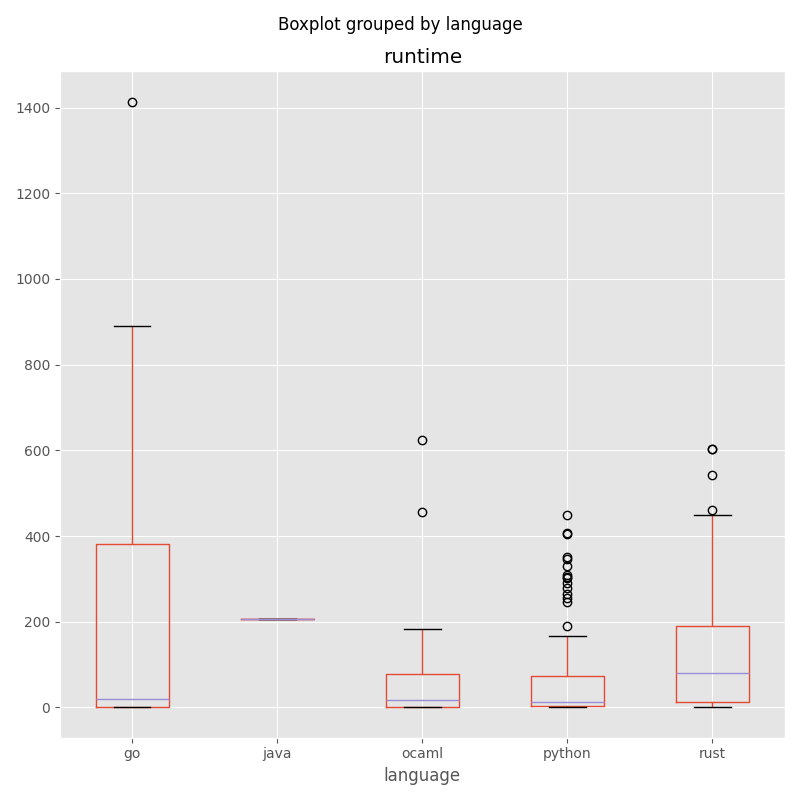
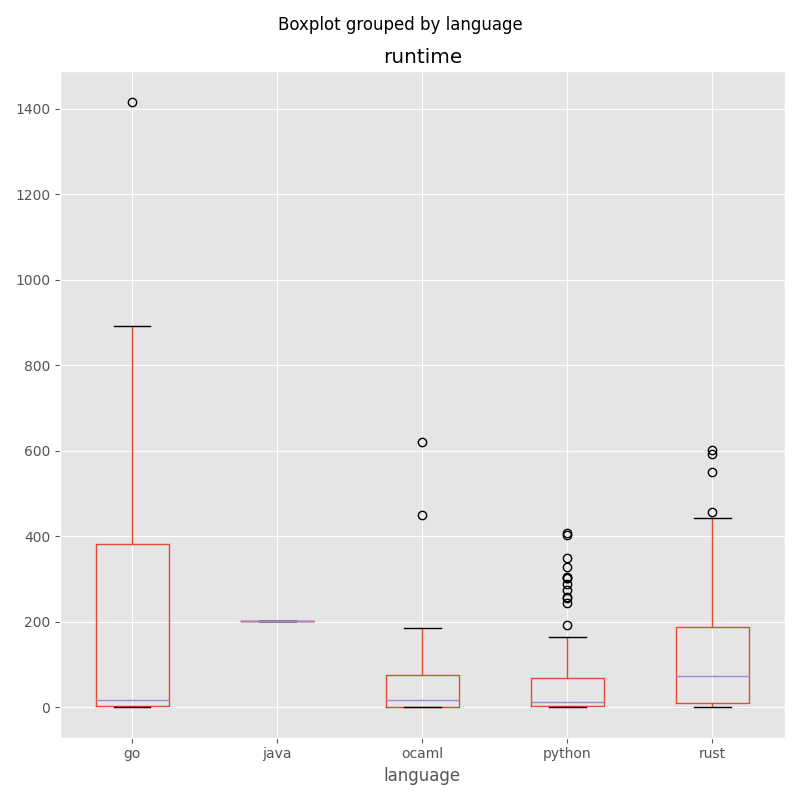
Speed up 2017/23 prime finding algo by only looking up to square root. Update graphs.

diff --git a/2017/23/solver.py b/2017/23/solver.py
@@ -1,52 +1,46 @@
+import math
 from collections import defaultdict
+from dataclasses import dataclass, field
 
 from aoc import answer
 from aoc.parser import Parser
 
+type Instruction = tuple[str, list[str]]
 
+
+@dataclass
 class Computer:
-    def __init__(self, instructions):
-        self.regs = defaultdict(int)
-        self.instructions = instructions
-        self.ip = 0
-        self.multiplies = 0
+    instructions: list[Instruction]
+    regs: dict[str, int] = field(default_factory=lambda: defaultdict(int))
+    ip: int = 0
+    multiplies: int = 0
 
     def run(self) -> None:
         while self.ip >= 0 and self.ip < len(self.instructions):
-            instruction = self.instructions[self.ip]
-            self.ip += instruction.run(self)
+            op, args = self.instructions[self.ip]
+            if op == "set":
+                self.regs[args[0]] = self.value(args[1])
+                self.ip += 1
+            elif op == "sub":
+                self.regs[args[0]] -= self.value(args[1])
+                self.ip += 1
+            elif op == "mul":
+                self.regs[args[0]] *= self.value(args[1])
+                self.multiplies += 1
+                self.ip += 1
+            elif op == "jnz":
+                if self.value(args[0]) != 0:
+                    self.ip += self.value(args[1])
+                else:
+                    self.ip += 1
+            else:
+                raise Exception(f"Unknown operation: {op}")
 
     def value(self, arg: str) -> int:
-        try:
-            return int(arg)
-        except ValueError:
+        if arg in ["a", "b", "c", "d", "e", "f", "g", "h"]:
             return self.regs[arg]
-
-
-class Intstruction:
-    def __init__(self, value: str):
-        parts = value.split()
-        self.op = parts[0]
-        self.args = parts[1:]
-
-    def run(self, computer: Computer) -> int:
-        if self.op == "set":
-            computer.regs[self.args[0]] = computer.value(self.args[1])
-            return 1
-        elif self.op == "sub":
-            computer.regs[self.args[0]] -= computer.value(self.args[1])
-            return 1
-        elif self.op == "mul":
-            computer.regs[self.args[0]] *= computer.value(self.args[1])
-            computer.multiplies += 1
-            return 1
-        elif self.op == "jnz":
-            if computer.value(self.args[0]) != 0:
-                return computer.value(self.args[1])
-            else:
-                return 1
         else:
-            raise Exception(f"Unknown operation: {self.op}")
+            return int(arg)
 
 
 @answer.timer
@@ -56,7 +50,11 @@ def main() -> None:
 
 
 def run_computer() -> int:
-    instructions = [Intstruction(line) for line in Parser().lines()]
+    def parse_instruction(line: str) -> Instruction:
+        parts = line.split()
+        return parts[0], parts[1:]
+
+    instructions = [parse_instruction(line) for line in Parser().lines()]
     computer = Computer(instructions)
     computer.run()
     return computer.multiplies
@@ -71,7 +69,7 @@ def count_non_primes(start: int, end: int, step: int) -> int:
 
 
 def is_prime(value: int) -> bool:
-    for i in range(2, value):
+    for i in range(2, math.floor(math.sqrt(value)) + 1):
         if value % i == 0:
             return False
     return True

diff --git a/README.md b/README.md
@@ -147,12 +147,13 @@ a-run \
 <summary>Process Runtime Output</summary>
 
 ```bash
-jq -r '.[]|[.year, .day, .language, .runtime]|@tsv' all.json
-jq -r '.[]|[.year, .day, .language, .runtime]|@tsv' all.json | sort -nk4
-jq -r '.[]|[.year, .day, .language, .runtime]|@tsv' all.json | sort -nk4 | awk '{ if ($4 > 100) { print $0 } }'
-jq -r '.[]|select(.year == 2015 and .day == 24)' all.json
-jq -r '.[]|.runtime' all.json | awk '{ sum+=$1 } END { print sum, "ms" }'
-jq -r '.[]|select(.year == 2015)|.runtime' all.json | awk '{ sum+=$1 } END { print sum, "ms" }'
+cat all.json | jq -r '.[]|[.year, .day, .language, .runtime]|@tsv'
+cat all.json | jq -r '.[]|[.year, .day, .language, .runtime]|@tsv' | sort -nk4
+cat all.json | jq -r '.[]|[.year, .day, .language, .runtime]|@tsv' | sort -nk4 | awk '{ if ($4 > 100) { print $0 } }'
+cat all.json | jq -r '.[]|select(.year == 2015 and .day == 24)'
+cat all.json | jq -r '.[]|.runtime' | awk '{ sum+=$1 } END { print sum, "ms" }'
+cat all.json | jq -r '.[]|select(.year == 2015)|.runtime' | awk '{ sum+=$1 } END { print sum, "ms" }'
+cat all.json | jq -r '.[]|[.year, .runtime]|@tsv' | awk '{ data[$1] += $2 } END { for (year in data) { print year, data[year], "ms" } }'
 ```
 
 </details>
